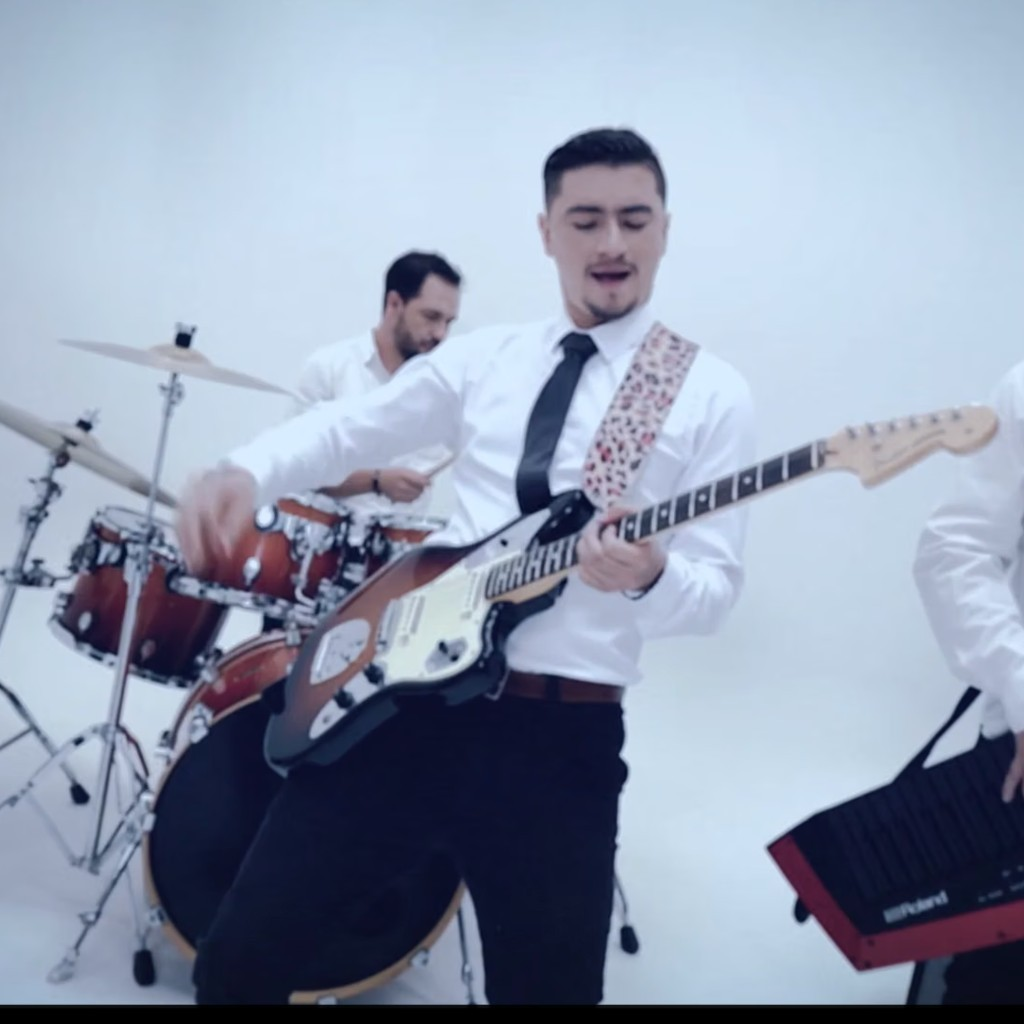
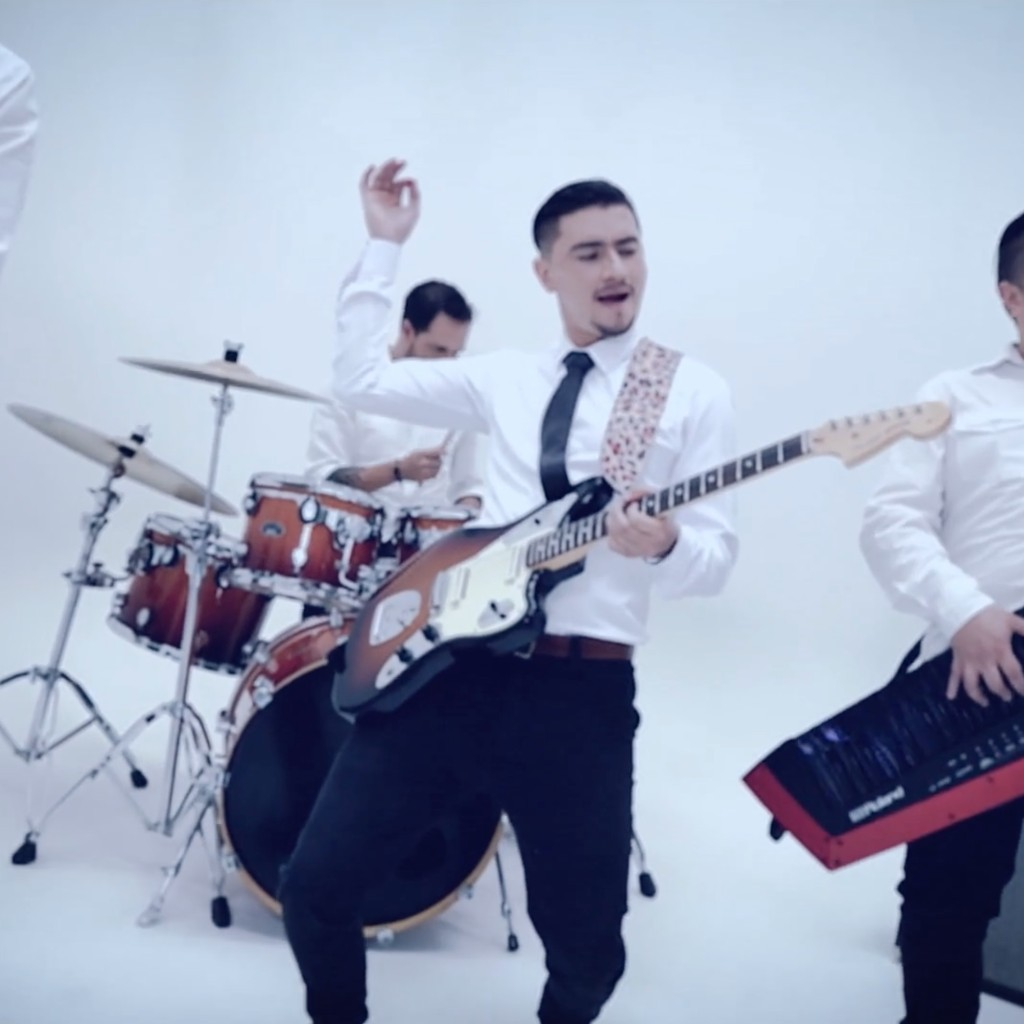
Swap the Rock Infame cover for the frame with the raised arm.

diff --git a/js/studio.js b/js/studio.js
@@ -827,7 +827,7 @@ async function boot() {
   const reduce = window.matchMedia("(prefers-reduced-motion: reduce)").matches;
   const [site, work, extras] = await Promise.all([
     loadJson("data/site.json"),
-    loadJson("data/work.json?v=4"),
+    loadJson("data/work.json?v=5"),
     loadJson("data/orbit.json"),
   ]);
   const pieces = work.filter((item) => Number.isInteger(item.reel)).sort((a, b) => a.reel - b.reel);

diff --git a/index.html b/index.html
@@ -169,6 +169,6 @@
     <div class="preloader" id="preloader" aria-live="polite">
       <span id="count">00</span>
     </div>
-    <script src="js/studio.js?v=43"></script>
+    <script src="js/studio.js?v=44"></script>
   </body>
 </html>
